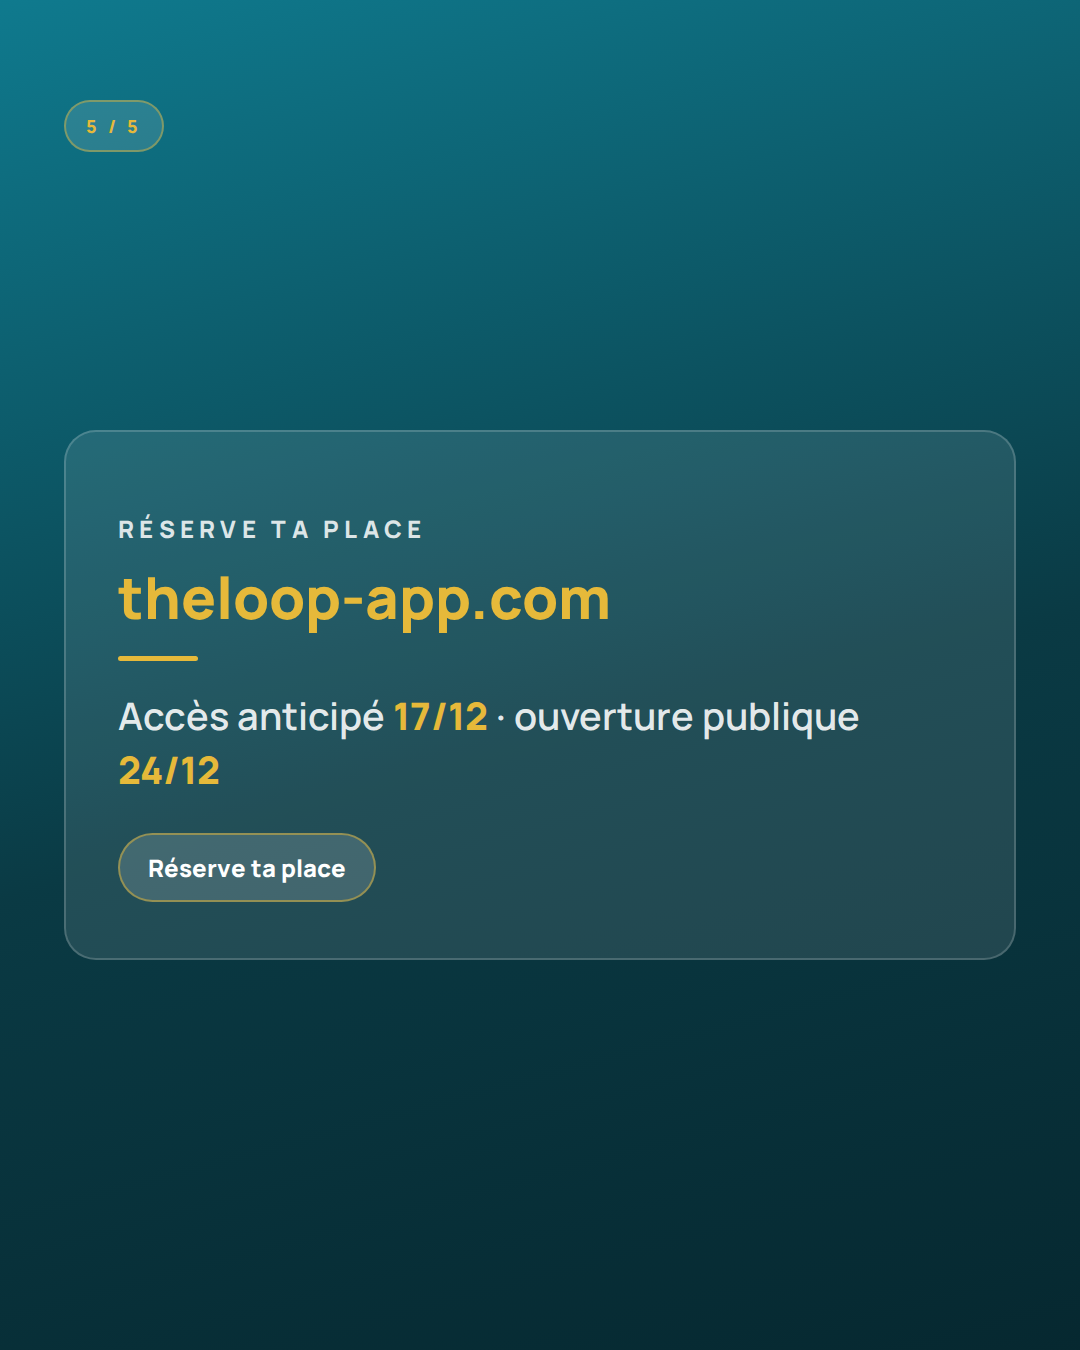
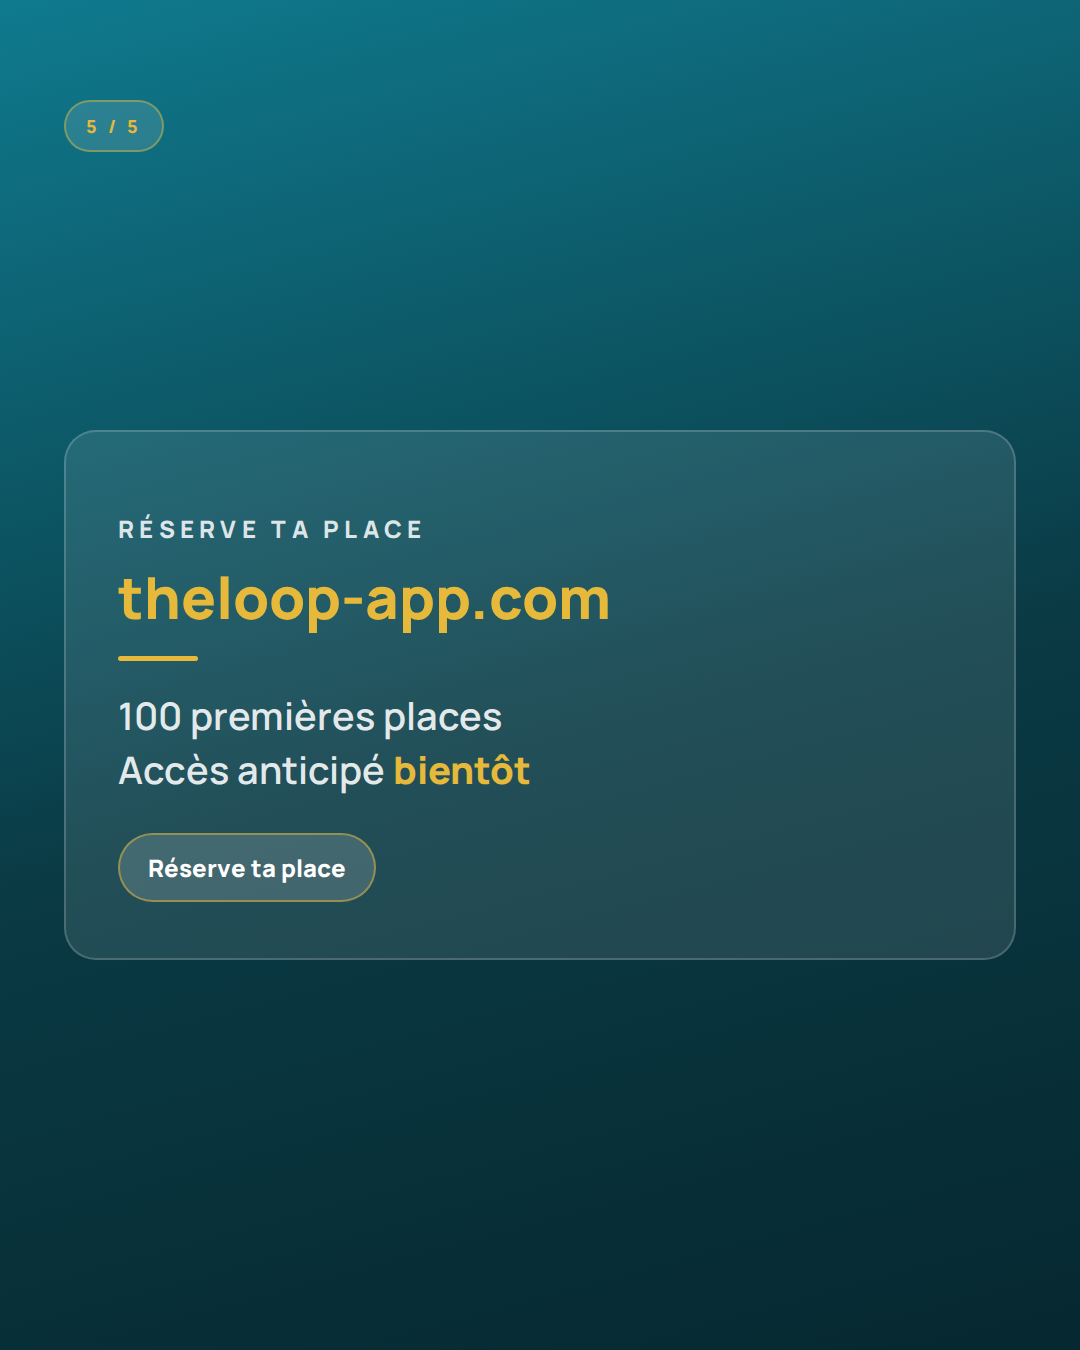
docs(com): légendes teasing sans « pas de lien » — accès anticipé bientôt

Changed region(s): [[0.0917, 0.4978, 0.7944, 0.5911]]

diff --git a/docs/communication/lancement-2026/export-visuels-pack-acte-a-v4-light.html b/docs/communication/lancement-2026/export-visuels-pack-acte-a-v4-light.html
@@ -453,7 +453,7 @@
         <span>Spots</span><span>Agenda</span><span>Parcours</span><span>Outils</span>
       </div>
       <span class="pill-date" style="font-size:26px;padding:22px 40px">Liste d’attente · 17 nov.</span>
-      <p class="p" style="text-align:center;margin-top:40px;font-size:28px;max-width:880px">Accès anticipé pour les <span class="gold">100 premières</span> inscriptions.<br />Pas de lien aujourd’hui — reste connecté.</p>
+      <p class="p" style="text-align:center;margin-top:40px;font-size:28px;max-width:880px">Accès anticipé pour les <span class="gold">100 premières</span> inscriptions.<br />Bientôt — reste connecté.</p>
     </div>
   </div>
 

diff --git a/docs/communication/lancement-2026/export-visuels-story-1511.html b/docs/communication/lancement-2026/export-visuels-story-1511.html
@@ -69,7 +69,7 @@
         <p class="p" style="margin:0;color:var(--teal);letter-spacing:0.18em;text-transform:uppercase;font-size:24px">Accès anticipé</p>
         <h2 class="h"><span class="gold">100 premières</span><br />places</h2>
         <div class="rule"></div>
-        <p class="p" style="margin-top:0">Invitation le <span class="gold">17 décembre</span><br />Avant l’ouverture publique du 24.</p>
+        <p class="p" style="margin-top:0">Accès anticipé<br /><span class="gold">bientôt.</span></p>
       </div>
       <p class="foot">Suite →</p>
     </div>

diff --git a/docs/communication/lancement-2026/export-visuels-carousel-1711.html b/docs/communication/lancement-2026/export-visuels-carousel-1711.html
@@ -118,7 +118,7 @@
         <p class="ey">Réserve ta place</p>
         <h1 class="h"><span class="gold">theloop-app.com</span></h1>
         <div class="rule"></div>
-        <p class="p">Accès anticipé <span class="gold">17/12</span> · ouverture publique <span class="gold">24/12</span></p>
+        <p class="p">100 premières places<br />Accès anticipé <span class="gold">bientôt</span></p>
         <span class="pill">Réserve ta place</span>
       </div>
     </div>

diff --git a/docs/communication/lancement-2026/export-visuels-video-1711.html b/docs/communication/lancement-2026/export-visuels-video-1711.html
@@ -152,7 +152,7 @@
         <p class="ey">Accès anticipé</p>
         <h1 class="cta">100 premières<br />places</h1>
         <div class="rule"></div>
-        <p class="url" style="font-size:32px;margin-top:0">Avant l’ouverture publique · 24/12</p>
+        <p class="url" style="font-size:32px;margin-top:0">Accès anticipé · bientôt</p>
       </div>
     </div>
   </div>

diff --git a/docs/communication/lancement-2026/CALENDRIER-PUBLICATION-GUIDE-2026.md b/docs/communication/lancement-2026/CALENDRIER-PUBLICATION-GUIDE-2026.md
@@ -13,19 +13,19 @@
 
 ---
 
-## Phase 1 — Teasing (3 → 16 nov.) · pas de lien
+## Phase 1 — Teasing (3 → 16 nov.) · une seule promesse : liste le 17 nov.
 
 | Date | Format pack | Objectif du post | Légende / contenu (résumé) | Vidéo toi ? |
 |------|-------------|------------------|----------------------------|-------------|
 | **3/11** mar. | Feed photo | Première prise de contact · « ça arrive » | Conakry n’a pas besoin d’un fil bruyant. **The Loop** arrive — guide sélectif. Liste d’attente : **17 nov.** | Non (déjà programmé) |
-| **5/11** jeu. | Feed photo | Signature marque | *Les bonnes adresses ne s’annoncent pas. Elles se transmettent.* Guide sélectif · **17 nov.** · 100 premières places · accès anticipé **17 déc.** | Non (déjà programmé) |
-| **6/11** ven. | Reels **option** ou 6 stories `FRAME_0611_*` | Problème du week-end (dilemme) | Vendredi soir, la même question. The Loop prépare un repère sélectif · liste **17 nov.** · pas de lien | **Non** (montage auto ou stories ; ton montage WhatsApp = option) |
+| **5/11** jeu. | Feed photo | Signature marque | *Les bonnes adresses ne s’annoncent pas. Elles se transmettent.* **17 nov.** · 100 premières places · accès anticipé **bientôt** | Non (déjà programmé — **mettre à jour la légende** si l’ancienne dit « on ne vend pas ») |
+| **6/11** ven. | Reels **option** ou 6 stories `FRAME_0611_*` | Problème du week-end (dilemme) | Vendredi soir, la même question. Guide sélectif · liste **17 nov.** · accès anticipé **bientôt** | **Non** |
 | **8/11** dim. | Story ×3 | Vocabulaire marque | 1) Guide sélectif 2) Spots·Agenda·Parcours·Outils 3) **17 nov.** | Non |
 | **11/11** mar. | Carrousel ×4 | **Expliquer l’esprit** (sans adresses) | Sélectif, discret. Esprit de la sélection The Loop. Liste **17 nov.** · 100 premières places | Non |
-| **12/11** jeu. | Feed J-5 | Compte à rebours | J-5 · ouverture liste **17 nov.** | Non |
+| **12/11** jeu. | Feed J-5 | Compte à rebours | Cinq jours. Liste **17 nov.** · 100 places · accès anticipé **bientôt** | Non |
 | **13/11** jeu. | Reels **option** ou stories `FRAME_1311_*` | Envie vs bruit | Une envie, pas le bruit · sélectif · **17 nov.** | Non |
 | **15/11** sam. | Story ×3 | Dernière ligne droite | J-2 · 100 places · mardi = réserve | Non |
-| **16/11** dim. | Feed J-1 | Veille d’ouverture | Demain · liste ouverte · **17 nov.** | **Option** 15–20 s « demain c’est ouvert » |
+| **16/11** dim. | Feed J-1 | Veille d’ouverture | Demain, la liste s’ouvre. 100 places · accès anticipé **bientôt** | **Option** 15–20 s « demain c’est ouvert » |
 
 ---
 
@@ -33,7 +33,7 @@
 
 | Date | Format pack | Objectif | Légende / contenu (résumé) | Vidéo toi ? |
 |------|-------------|----------|----------------------------|-------------|
-| **17/11** mar. | **Carrousel ×5** + **Story ×3** + Reels **option** pack | **JOUR J** · expliquer **à quoi sert** The Loop + **inscrire** | Le bruit ne manque pas. Un repère, si. Liste **ouverte**. 100 premières places · accès **17 déc.** · public **24 déc.** **Lien + UTM.** | **OUI — priorité** · 30–45 s : guide sélectif, 4 piliers, liste ouverte, dates 17/12 et 24/12, CTA lien |
+| **17/11** mar. | **Carrousel ×5** + **Story ×3** + Reels **option** pack | **JOUR J** · expliquer **à quoi sert** The Loop + **inscrire** | Le bruit ne manque pas. Un repère, si. Liste **ouverte**. 100 premières places · accès anticipé **bientôt**. **Lien + UTM.** | **OUI — priorité** · 30–45 s : guide sélectif, 4 piliers, liste ouverte, accès anticipé bientôt, CTA lien |
 | **19/11** jeu. | Feed merci | Remercier + relance inscription | Merci pour l’élan · liste toujours ouverte · **Réserve ta place** | Non |
 | **21/11** sam. | Reels **option** `FRAME_2111_*` ou **1 phrase en story** | **Pourquoi** The Loop existe | Conakry avance · infos dispersées · **en clair** · sélectif · lien | Non (ta voix possible en **story** courte, pas obligatoire) |
 | **22/11** dim. | Story ×2 (+ sondage Meta) | Engagement + rappel liste | Sondage week-end · puis **Réserve ta place** · 100 premières places | Non |
@@ -62,7 +62,7 @@
 
 | Date | Format pack | Objectif | Légende / contenu (résumé) | Vidéo toi ? |
 |------|-------------|----------|----------------------------|-------------|
-| **17/12** mer. | Feed pré-launch | **100 premiers** · e-mail produit | Si tu es inscrit·e : **vérifie ta boîte mail**. Invitations aujourd’hui. Public **24 déc.** · pas de gros CTA inscription | **OUI** · matin **17/12** : « Regarde ta mail si tu étais dans les 100 premiers · pour tous : **24 déc.** » |
+| **17/12** mer. | Feed pré-launch | **100 premiers** · e-mail | Accès anticipé. **Vérifie ta boîte mail** si tu es dans les 100. Pour tout le monde : The Loop arrive **bientôt** (pas la date du 24 dans cette légende) | **OUI** · « Regarde ta mail si tu étais dans les 100 premiers. Pour tout le monde : bientôt. » |
 | **21/12** dim. | Story ×2 J-3 | Teaser Noël | **24 déc.** · ouverture publique · cadeau de Noël · lien option story 2 | Non (ou 10 s toi en story) |
 | **23/12** mar. | Carrousel ×4 | Veille lancement | Demain **The Loop** s’ouvre · 4 piliers · **lien** UTM `launch_teaser_2312` | Non |
 | **24/12** mer. | **Reels** pack + **Story ×5** | **Lancement public** | Cadeau de Noël pour Conakry · guide ouvert · **Entrez dans le guide** + lien `noel_2412` | **OUI** · matin **24/12** : c’est ouvert · Bon Noël · lien |
@@ -80,12 +80,12 @@
 ## Tes 3 vidéos « assise, je parle » — script ultra-court
 
 ### 17/11 (liste ouverte)
-> « Bonjour. The Loop, c’est un guide **sélectif** pour Conakry : où sortir, quoi faire, des parcours, des outils — **en clair**, pas un annuaire. **Aujourd’hui** la liste est ouverte. Les **100 premières** inscriptions auront un accès **le 17 décembre** par e-mail. **Tout le monde** pourra entrer **le 24 décembre**. Le lien est juste en dessous : **Réserve ta place**. »
+> « Bonjour. The Loop, c’est un guide **sélectif** pour Conakry : où sortir, quoi faire, des parcours, des outils — **en clair**, pas un annuaire. **Aujourd’hui** la liste est ouverte. Les **100 premières** inscriptions auront un accès anticipé, **bientôt**, par e-mail. Le lien est juste en dessous : **Réserve ta place**. »
 
 *Montage : toi à l’écran + **option** 2–3 captures app **floues** ou plans Conakry entre les phrases — pas obligatoire.*
 
 ### 17/12 (100 premiers)
-> « Aujourd’hui, les **100 premières** personnes inscrites reçoivent leur invitation par **e-mail**. Si tu t’es inscrit tôt, **vérifie ta boîte mail**. Pour le grand public : **The Loop** ouvre **le 24 décembre**. »
+> « Aujourd’hui, les **100 premières** personnes inscrites reçoivent leur invitation par **e-mail**. Si tu t’es inscrit tôt, **vérifie ta boîte mail**. Pour tout le monde : **The Loop** arrive **bientôt**. »
 
 ### 24/12 (lancement)
 > « **Joyeux Noël.** The Loop est **ouvert** pour Conakry. Entrez dans le guide — le lien est en dessous. Merci d’avoir suivi l’aventure. »

diff --git a/docs/communication/lancement-2026/calendrier-chronologique-complet.md b/docs/communication/lancement-2026/calendrier-chronologique-complet.md
@@ -19,7 +19,7 @@ Bas : **The Loop** · Bientôt
 **Légende :**  
 Conakry n’a pas besoin d’un énième fil bruyant.  
 The Loop arrive — guide **sélectif** : spots, agenda, parcours, outils.  
-Pas d’inscription aujourd’hui. On ouvre la liste le **17 novembre**.
+Liste d’attente : **17 novembre**.
 
 **Story (même jour, option) :** fond bleu-vert · texte : **Bientôt.** · sticker « restez connectés » sans lien.
 
@@ -35,7 +35,7 @@ Pas d’inscription aujourd’hui. On ouvre la liste le **17 novembre**.
 **Légende :**  
 Signature The Loop.  
 **17 novembre** : ouverture des **100 premières places** (accès anticipé).  
-D’ici là : on tease, on ne vend pas.
+**100 premières places** pour un accès anticipé — bientôt.
 
 ---
 
@@ -50,7 +50,7 @@ D’ici là : on tease, on ne vend pas.
 | 0:20–0:28 | Bleu-vert + logo | **The Loop** · **Bientôt.** | The Loop arrive. | Montée |
 | 0:28–0:32 | Carte | **Les bonnes adresses ne s'annoncent pas.** | Elles se transmettent. | Cut |
 
-**Légende :** Vendredi soir, la même question. The Loop prépare un guide **sélectif** pour Conakry. Pas un annuaire — un repère. Liste d’attente : **17 novembre** (pas d’inscription avant · pas de lien).  
+**Légende :** Vendredi soir, la même question. The Loop prépare un guide **sélectif** pour Conakry. Pas un annuaire — un repère. Liste d’attente : **17 novembre**. **100 premières places** · accès anticipé bientôt.  
 **Lien :** aucun · **UTM :** n/a
 
 ---
@@ -112,7 +112,7 @@ D’ici là : on tease, on ne vend pas.
 ### Lundi 16/11/2026 · Image J-1
 
 **Visuel :** #0A3A44 · **Demain.** · Ouverture de la liste  
-**Légende :** Dernier rappel avant l’ouverture. Demain : vidéo + carrousel + lien.
+**Légende :** Demain. Mardi **17 novembre**, la liste d’attente s’ouvre. **100 premières places** · accès anticipé bientôt. On se retrouve demain.
 
 ---
 
@@ -121,13 +121,13 @@ D’ici là : on tease, on ne vend pas.
 ### Mardi 17/11/2026 · Vidéo « La fréquence » (38 s) + Carrousel (5 slides)
 
 **Vidéo — voix off intégrale :**  
-Tout crie. Peu de choses guident. Conakry mérite un repère. Spots. Agenda. Parcours. Outils. Un seul endroit pour décider. The Loop. Cent premières places. Accès anticipé avant l’ouverture publique. Réserve ta place.
+Tout crie. Peu de choses guident. Conakry mérite un repère. Spots. Agenda. Parcours. Outils. Un seul endroit pour décider. The Loop. Cent premières places. Accès anticipé, bientôt. Réserve ta place.
 
 *(Timecode détaillé : voir `video-1711-script-angle-a.md`.)*
 
 **Légende vidéo :**  
 Le bruit ne manque pas. Un repère, si.  
-The Loop ouvre sa liste : **100 premières places** pour l’accès anticipé (17 décembre), avant l’ouverture du 24.  
+The Loop ouvre sa liste. **100 premières places** pour un accès anticipé — bientôt.  
 **Réserve ta place** 👇  
 `https://theloop-app.com/?utm_source=facebook&utm_medium=video&utm_campaign=waitlist_open_2026&utm_content=frequence_1711`
 
@@ -136,7 +136,7 @@ The Loop ouvre sa liste : **100 premières places** pour l’accès anticipé (1
 2. **Pourquoi The Loop** / Un repère, pas un fil bruyant  
 3. **Spots · Agenda · Parcours · Outils**  
 4. **Sélectif, pas exhaustif** / Valeur réelle, expérience soignée  
-5. **Réserve ta place** / theloop-app.com · Accès anticipé 17/12 · Public 24/12  
+5. **Réserve ta place** / theloop-app.com · 100 premières places · accès anticipé bientôt  
 
 **Légende carrousel + lien :**  
 `utm_medium=carousel&utm_content=100places_1711`

diff --git a/docs/communication/lancement-2026/fiches/17-LOT-A-30-11-09-12.md b/docs/communication/lancement-2026/fiches/17-LOT-A-30-11-09-12.md
@@ -12,7 +12,13 @@
 | `STORY_30-11_01_signature.png` | Citation transmission |
 | `STORY_30-11_02_lien.png` | Liste ouverte · sticker discret |
 
-**Lien story 2 :**  
+**Légende (si repartage feed) :**  
+Les bonnes adresses ne s’annoncent pas. Elles se transmettent.
+
+La liste **The Loop** est ouverte.
+**100 premières places** · accès anticipé bientôt.
+
+**Réserve ta place** 👇  
 https://theloop-app.com/?utm_source=facebook&utm_medium=story&utm_campaign=waitlist_open_2026&utm_content=signature_3011
 
 ---
@@ -21,15 +27,31 @@ https://theloop-app.com/?utm_source=facebook&utm_medium=story&utm_campaign=waitl
 
 `POST_02-12_regle-2-PUBLIER.png` · **Une vraie plus-value.**
 
-**Légende + lien :** `utm_content=regle2_0212` · `utm_medium=image`
+**Légende :**  
+Comment on pense la sélection chez The Loop — **2/3**.
+
+**Règle 2 :** une vraie plus-value. On retient ce qui apporte quelque chose de net.
+
+Liste ouverte · **100 premières places** · accès anticipé bientôt.
+
+**Réserve ta place** 👇  
+https://theloop-app.com/?utm_source=facebook&utm_medium=image&utm_campaign=waitlist_open_2026&utm_content=regle2_0212
 
 ---
 
 ## #19 · 4/12 · J-20
 
-`POST_04-12_J-20-PUBLIER.png` · Ouverture publique **24/12** · accès anticipé **17/12**.
+`POST_04-12_J-20-PUBLIER.png`
 
-**Légende + lien :** `utm_content=j20_0412`
+**Légende :**  
+**J-20.**
+
+Le **24 décembre**, The Loop s’ouvre à Conakry.
+
+D’ici là : **100 premières places**, accès anticipé le **17 décembre**.
+
+**Réserve ta place** 👇  
+https://theloop-app.com/?utm_source=facebook&utm_medium=image&utm_campaign=waitlist_open_2026&utm_content=j20_0412
 
 ---
 
@@ -37,7 +59,12 @@ https://theloop-app.com/?utm_source=facebook&utm_medium=story&utm_campaign=waitl
 
 Frames `FRAME_0512_01` … `04` · SRT `srt/POST_05-12_anti-annuaire.srt`
 
-**Légende :** Pas un annuaire. Un guide.  
+**Légende :**  
+Pas un annuaire. Un guide.
+
+**The Loop** sélectionne. Spots, agenda, parcours, outils — en clair, pour Conakry.
+
+**Réserve ta place** 👇  
 https://theloop-app.com/?utm_source=facebook&utm_medium=video&utm_campaign=waitlist_open_2026&utm_content=anti_annuaire_0512
 
 ---
@@ -46,7 +73,15 @@ https://theloop-app.com/?utm_source=facebook&utm_medium=video&utm_campaign=waitl
 
 `POST_09-12_regle-3-PUBLIER.png` · **Expérience soignée ou rare.**
 
-**Légende + lien :** `utm_content=regle3_0912`
+**Légende :**  
+Comment on pense la sélection chez The Loop — **3/3**.
+
+**Règle 3 :** une expérience soignée, ou rare.
+
+Liste ouverte · accès anticipé bientôt.
+
+**Réserve ta place** 👇  
+https://theloop-app.com/?utm_source=facebook&utm_medium=image&utm_campaign=waitlist_open_2026&utm_content=regle3_0912
 
 ---
 

diff --git a/docs/communication/lancement-2026/fiches/02-2026-11-05.md b/docs/communication/lancement-2026/fiches/02-2026-11-05.md
@@ -13,7 +13,7 @@
 | **Reels** | Même vidéo que story | Export unique 1080×1920 |
 | **Feed** *(option)* | Republier la vidéo | Même légende que ci-dessous |
 
-**Acte A :** pas de lien dans le post · pas de sticker URL.
+**Publication :** image + légende. Pas d’aperçu de l’application.
 
 ---
 
@@ -38,7 +38,8 @@ Elles se transmettent.
 
 The Loop — guide sélectif pour Conakry : spots, agenda, parcours, outils.
 
-Le 17 novembre, ouverture de la liste d’attente et des 100 premières places pour l’accès anticipé (17 décembre). D’ici là : on tease, on ne vend pas.
+Le **17 novembre** : ouverture de la liste d’attente.
+**100 premières places** pour un accès anticipé — bientôt.
 
 ---
 
@@ -46,7 +47,7 @@ Le 17 novembre, ouverture de la liste d’attente et des 100 premières places p
 
 **Avec vidéo (recommandé)**  
 1. Publier la vidéo montée (18–24 s).  
-2. Pas de lien · sous-titres ON.  
+2. Sous-titres activés.  
 3. Option : repartager en story « Nouveau post » depuis le feed image le lendemain.
 
 **Sans vidéo (plan secours)**  
@@ -67,7 +68,7 @@ Sous-titres : **`srt/POST_5-11_signature.srt`**
 ## Commentaires (DM)
 
 - *« C’est quoi ? »* → Repère curaté Conakry, pas un annuaire.  
-- *« Lien ? »* → **17 novembre** seulement.
+- *« Comment s’inscrire ? »* → La liste ouvre le **17 novembre**.
 
 ---
 
@@ -76,7 +77,7 @@ Sous-titres : **`srt/POST_5-11_signature.srt`**
 - [ ] Feed image publiée + légende
 - [ ] Story vidéo (ou 3 slides) publiée
 - [ ] Reels = même vidéo *(option)*
-- [ ] Pas de lien · pas d’app lisible
+- [ ] Pas d’aperçu d’application sur l’image
 - [ ] Sous-titres / .srt vérifiés si VO
 
 ---

diff --git a/docs/communication/lancement-2026/video-1711-script-angle-a.md b/docs/communication/lancement-2026/video-1711-script-angle-a.md
@@ -20,7 +20,7 @@
 | 0:12–0:16 | Écran bleu-vert profond (#0A3A44), typo Manrope. | **Conakry mérite un repère.** | « Conakry mérite un repère. » | Pad + léger swell. |
 | 0:16–0:22 | Captures app **floutées** (Agenda → Spot → Parcours), transitions propres. | **Spots · Agenda · Parcours · Outils** | « Spots. Agenda. Parcours. Outils. Un seul endroit pour décider. » | Beat régulier, discret (80–90 BPM). |
 | 0:22–0:28 | Logo (arc + point) sur fond clair bleuté. Anneau **fermé** 1 s → **arc ouvert** (animation simple ou cut). | **The Loop** | « The Loop. » | Hit musical soft sur l’ouverture de l’arc. |
-| 0:28–0:34 | Carte finale : fond #0F7A8E, filet doré. | **100 premières places** · **Accès anticipé** | « Cent premières places. Accès anticipé avant l’ouverture publique. » | Musique monte légèrement. |
+| 0:28–0:34 | Carte finale : fond #0F7A8E, filet doré. | **100 premières places** · **Accès anticipé · bientôt** | « Cent premières places. Accès anticipé, bientôt. » | Musique monte légèrement. |
 | 0:34–0:38 | Même carte + URL. | **Réserve ta place** · **theloop-app.com** | « Réserve ta place. » | Musique se résout (fade 1 s). |
 
 ---
@@ -30,7 +30,8 @@
 **Texte principal :**  
 Le bruit ne manque pas. Un repère, si.
 
-The Loop ouvre sa liste : **100 premières places** pour l’accès anticipé (17 décembre), avant l’ouverture du 24.
+The Loop ouvre sa liste.
+**100 premières places** pour un accès anticipé — bientôt.
 
 Spots · Agenda · Parcours · Outils — Conakry, en clair.
 

diff --git a/docs/communication/lancement-2026/fiches/04-2026-11-08.md b/docs/communication/lancement-2026/fiches/04-2026-11-08.md
@@ -4,7 +4,7 @@
 **Validé** — `STORY_8-11_01_marque.png` · `02_piliers` · `03_17nov`.
 
 ## Objectif
-Rappeler **marque + 4 piliers + date** sans lien (Acte A). C’est le post prévu pour exposer Spots · Agenda · Parcours · Outils en story.
+Rappeler **marque + 4 piliers + date**. C’est le post prévu pour exposer Spots · Agenda · Parcours · Outils en story.
 
 ## Visuels
 
@@ -19,21 +19,21 @@ Regénérer : `node docs/communication/lancement-2026/scripts/export-story-0811.
 ## Publication Facebook Story
 
 1. Publier les **3 images à la suite** (dimanche 8/11).
-2. **Pas de lien** · pas de sticker URL.
-3. Option texte natif frame 3 : **17 nov.**
+2. Texte natif frame 3 : **17 nov.**
 
 ## Légende
 *Pas de post feed ce jour-là* — story seule. Si tu repartages en feed plus tard, texte court :
 
 **The Loop** — guide **sélectif** pour Conakry. Spots · Agenda · Parcours · Outils.
 
-Liste le **17 novembre** · **100 premières places**. Pas de lien avant cette date.
+Liste d’attente : **17 novembre** · **100 premières places**.
+Accès anticipé bientôt.
 
 ## Checklist
 
 - [x] Visuels validés
 - [ ] Story publiée dans l’ordre 1 → 2 → 3 (8/11)
-- [ ] Pas de lien
+- [ ] Story publiée sans aperçu d’application
 
 ## Suite
 

diff --git a/docs/communication/lancement-2026/fiches/03-2026-11-06.md b/docs/communication/lancement-2026/fiches/03-2026-11-06.md
@@ -29,7 +29,7 @@
 |-------|--------|--------|
 | **Feed** | Vidéo 9:16 | Montage principal |
 | **Reels** | Idem | Même fichier |
-| **Story** | Idem | + sticker **17 nov.** (sans lien) |
+| **Story** | Idem | + sticker texte **17 nov.** |
 
 Pas de post image feed obligatoire ce jour-là (le calendrier est **vidéo-first**).
 
@@ -58,7 +58,8 @@ Vendredi soir, la même question.
 
 Spots · agenda · parcours · outils — **en clair**, sans fil bruyant.
 
-La liste d’attente ouvre le **17 novembre**. D’ici là, pas d’inscription (Acte A · pas de lien).
+Liste d’attente : **17 novembre**.
+**100 premières places** · accès anticipé bientôt.
 
 ---
 
@@ -79,7 +80,7 @@ La liste d’attente ouvre le **17 novembre**. D’ici là, pas d’inscription 
 - [ ] Durée 28–35 s · sons vibration / notif / musique
 - [ ] VO + sous-titres (.srt)
 - [ ] Aucune capture app · aucun nom de lieu
-- [ ] Pub feed + story · **pas de lien**
+- [ ] Publié en feed (vidéo ou stories)
 - [ ] Pills **absents** de la vidéo · OK en légende
 
 ---

diff --git a/docs/communication/lancement-2026/fiches/05-2026-11-11.md b/docs/communication/lancement-2026/fiches/05-2026-11-11.md
@@ -4,7 +4,7 @@
 **Validé** — `CARROUSEL_11-11_01` … `04_en-clair-17nov`.
 
 ## Objectif
-Exposer **l’esprit de la sélection** (critères) sans nommer d’adresse · rappel **17/11** slide 4 · Acte A = **pas de lien**.
+Exposer **l’esprit de la sélection** (critères) sans nommer d’adresse · rappel **17/11** slide 4.
 
 ## Visuels (ordre carrousel Facebook)
 
@@ -24,7 +24,8 @@ Sélectif, discret.
 
 Voici **l’esprit** de la sélection The Loop — sans nommer d’adresse ici.
 
-Liste d’attente : **17 novembre** · 100 premières places pour l’accès anticipé.
+Liste d’attente : **17 novembre**.
+**100 premières places** · accès anticipé bientôt.
 
 ## Story (option même semaine)
 
@@ -33,7 +34,7 @@ Reposter la **slide 4** ou **slide 2** en story · sticker **17 nov.** sans URL.
 ## Checklist
 
 - [x] Visuels validés
-- [ ] Carrousel publié 1 → 4 · légende · pas de lien
+- [ ] Carrousel publié 1 → 4 · légende ci-dessus
 
 ## Suite
 
